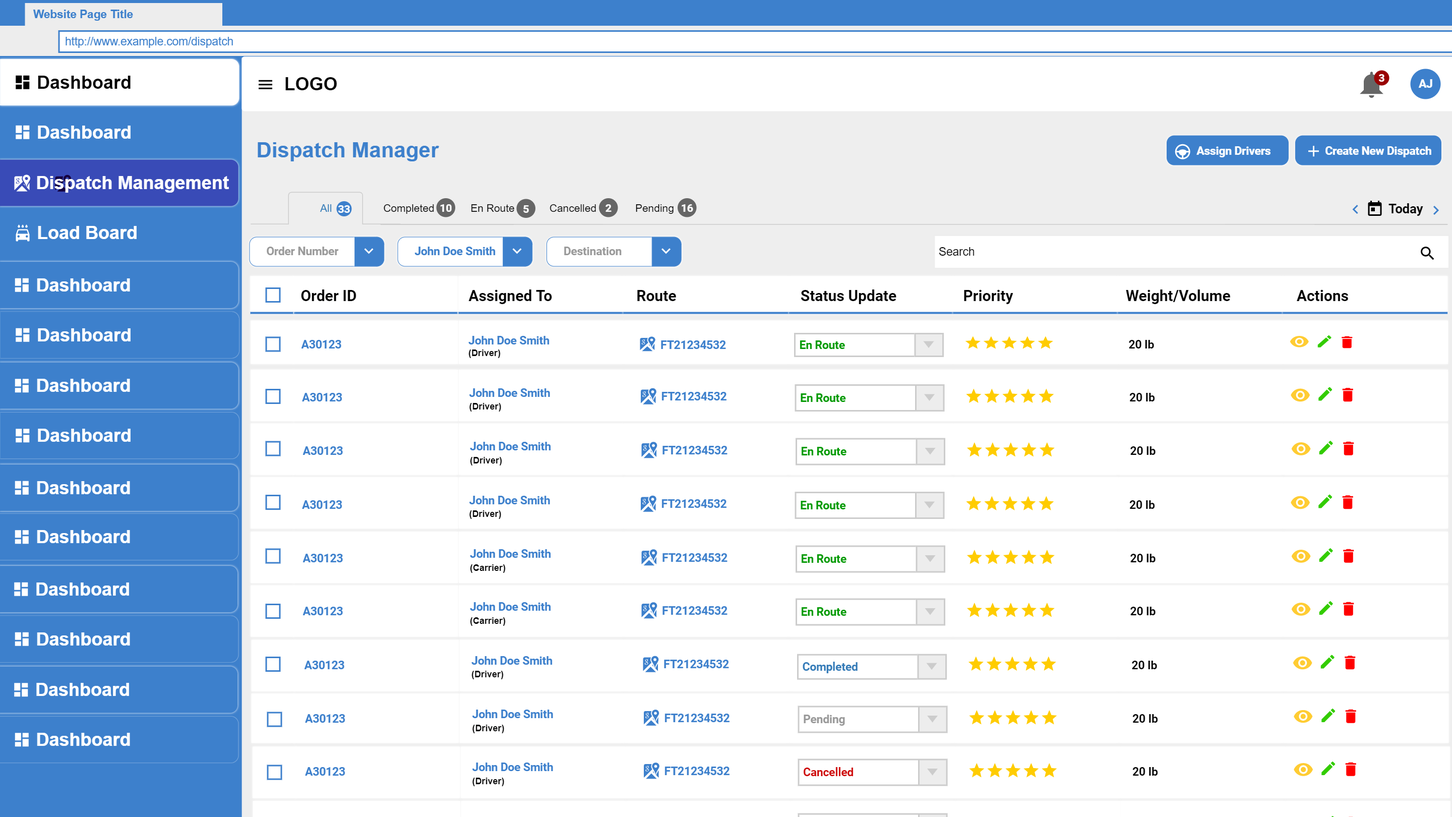
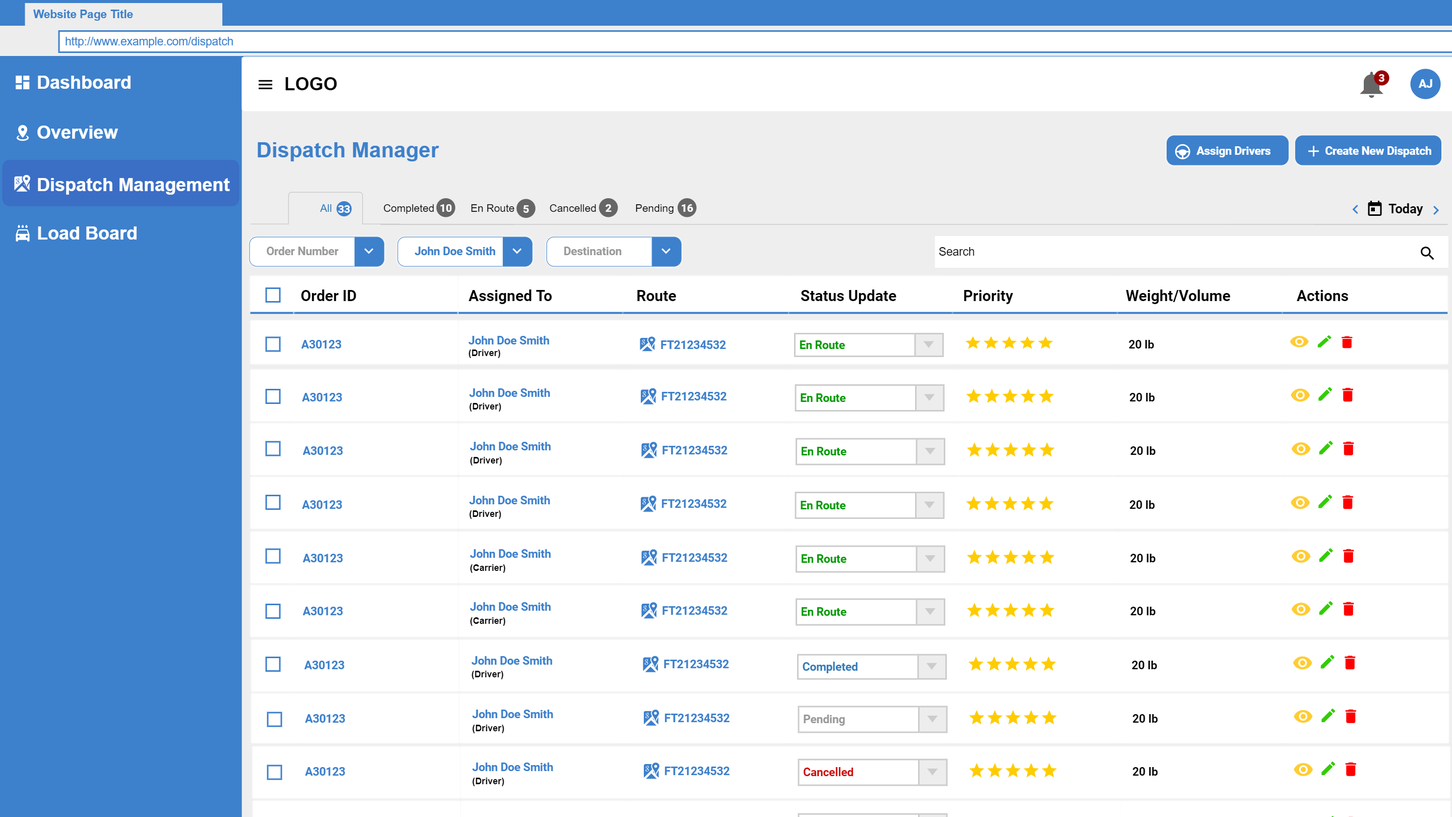
updated dispatch menu

diff --git a/index.html b/index.html
@@ -1,2 +1,2 @@
 <html xmlns="http://www.w3.org/1999/xhtml" xmlns:p="http://www.evolus.vn/Namespace/Pencil" xmlns:html="http://www.w3.org/1999/xhtml"><head><meta http-equiv="Content-Type" content="text/html; charset=UTF-8" />
-<title>moonstar maintenance module</title><link rel="stylesheet" href="Resources/style.css" /><script type="application/javascript" src="Resources/script.js"></script></head><body><h1 id="documentTitle">moonstar maintenance module</h1><p id="documentMetadata">Exported at: Thu Oct 26 2023 13:24:37 GMT+0100 (West Africa Standard Time)</p><div class="Page" id="login_page"><h2>Login</h2><div class="ImageContainer"><img src="pages\login.png" width="1920" height="1080" usemap="#map_login" /></div><map name="map_login"><area shape="rect" coords="265.72686767578125,628.59765625,649.226928710938,662.59765625" href="#modules__page" title="Go to page 'Modules '" /></map></div><div class="Page" id="modules__page"><h2>Modules </h2><div class="ImageContainer"><img src="pages\modules_.png" width="1920" height="1080" usemap="#map_modules_" /></div><map name="map_modules_"></map></div><div class="Page" id="dispatch_page"><h2>Dispatch</h2><div class="ImageContainer"><img src="pages\dispatch.png" width="1920" height="1080" usemap="#map_dispatch" /></div><map name="map_dispatch"></map></div><div class="Page" id="dispatch_manager_page"><h2>Dispatch Manager</h2><div class="ImageContainer"><img src="pages\dispatch_manager.png" width="1920" height="1080" usemap="#map_dispatch_manager" /></div><map name="map_dispatch_manager"><area shape="rect" coords="352.0003356933594,799.0003662109375,370.000335693359,817.000366210938" href="#dispatch_dashboard_bulk_user_action_page" title="Go to page 'Dispatch Dashboard - Bulk User Action'" /><area shape="rect" coords="352.00018310546875,726.000244140625,370.000183105469,744.000244140625" href="#dispatch_dashboard_bulk_user_action_page" title="Go to page 'Dispatch Dashboard - Bulk User Action'" /><area shape="rect" coords="352.0000915527344,655.0004272460938,370.000091552734,673.000427246094" href="#dispatch_dashboard_bulk_user_action_page" title="Go to page 'Dispatch Dashboard - Bulk User Action'" /><area shape="rect" coords="352.0000915527344,584.000244140625,370.000091552734,602.000244140625" href="#dispatch_dashboard_bulk_user_action_page" title="Go to page 'Dispatch Dashboard - Bulk User Action'" /><area shape="rect" coords="352.0002136230469,869.0001831054688,370.000213623047,887.000183105469" href="#dispatch_dashboard_bulk_user_action_page" title="Go to page 'Dispatch Dashboard - Bulk User Action'" /><area shape="rect" coords="354.0001220703125,942.000732421875,372.000122070312,960.000732421875" href="#dispatch_dashboard_bulk_user_action_page" title="Go to page 'Dispatch Dashboard - Bulk User Action'" /><area shape="rect" coords="354.0003662109375,1012.00048828125,372.000366210938,1030.00048828125" href="#dispatch_dashboard_bulk_user_action_page" title="Go to page 'Dispatch Dashboard - Bulk User Action'" /><area shape="rect" coords="352.0000915527344,515.0001220703125,370.000091552734,533.000122070312" href="#dispatch_dashboard_bulk_user_action_page" title="Go to page 'Dispatch Dashboard - Bulk User Action'" /><area shape="rect" coords="352.0000915527344,446.00006103515625,370.000091552734,464.000061035156" href="#dispatch_dashboard_bulk_user_action_page" title="Go to page 'Dispatch Dashboard - Bulk User Action'" /><area shape="rect" coords="352.0000915527344,381.00006103515625,370.000091552734,399.000061035156" href="#dispatch_dashboard_bulk_user_action_page" title="Go to page 'Dispatch Dashboard - Bulk User Action'" /><area shape="rect" coords="846.4534912109375,795.1103515625,962.406784057617,818.5478515625" href="#dispatch_dashboard_route_details_expanded_page" title="Go to page 'Dispatch Dashboard - Route Details Expanded'" /><area shape="rect" coords="846.4534912109375,725.110107421875,962.406860351562,748.547607421875" href="#dispatch_dashboard_route_details_expanded_page" title="Go to page 'Dispatch Dashboard - Route Details Expanded'" /><area shape="rect" coords="845.453369140625,654.110107421875,961.406661987305,677.547607421875" href="#dispatch_dashboard_route_details_expanded_page" title="Go to page 'Dispatch Dashboard - Route Details Expanded'" /><area shape="rect" coords="849.4534912109375,1007.1104736328125,965.406860351562,1030.5480556488" href="#dispatch_dashboard_route_details_expanded_page" title="Go to page 'Dispatch Dashboard - Route Details Expanded'" /><area shape="rect" coords="845.4534912109375,512.1100463867188,961.406784057617,535.547546386719" href="#dispatch_dashboard_route_details_expanded_page" title="Go to page 'Dispatch Dashboard - Route Details Expanded'" /><area shape="rect" coords="844.453369140625,444.1099548339844,960.406661987305,467.266368865967" href="#dispatch_dashboard_route_details_expanded_page" title="Go to page 'Dispatch Dashboard - Route Details Expanded'" /><area shape="rect" coords="846.4534912109375,583.1102905273438,962.406784057617,606.547790527344" href="#dispatch_dashboard_route_details_expanded_page" title="Go to page 'Dispatch Dashboard - Route Details Expanded'" /><area shape="rect" coords="848.453369140625,866.110107421875,964.406661987305,889.547607421875" href="#dispatch_dashboard_route_details_expanded_page" title="Go to page 'Dispatch Dashboard - Route Details Expanded'" /><area shape="rect" coords="849.4534912109375,937.1102294921875,965.406784057617,960.266723632812" href="#dispatch_dashboard_route_details_expanded_page" title="Go to page 'Dispatch Dashboard - Route Details Expanded'" /></map></div><div class="Page" id="dispatch_dashboard_bulk_user_action_page"><h2>Dispatch Dashboard - Bulk User Action</h2><div class="ImageContainer"><img src="pages\dispatch_dashboard_bulk_user_action.png" width="1920" height="1080" usemap="#map_dispatch_dashboard_bulk_user_action" /></div><map name="map_dispatch_dashboard_bulk_user_action"><area shape="rect" coords="357.00042724609375,942.0006713867188,375.000427246094,960.000671386719" href="#dispatch_manager_page" title="Go to page 'Dispatch Manager'" /><area shape="rect" coords="356.0003662109375,871.0006103515625,374.000366210938,889.000610351562" href="#dispatch_manager_page" title="Go to page 'Dispatch Manager'" /><area shape="rect" coords="354.0003662109375,800.000732421875,372.000366210938,818.000732421875" href="#dispatch_manager_page" title="Go to page 'Dispatch Manager'" /><area shape="rect" coords="354.0004577636719,730.00048828125,372.000457763672,748.00048828125" href="#dispatch_manager_page" title="Go to page 'Dispatch Manager'" /><area shape="rect" coords="353.0003356933594,659.00048828125,371.000335693359,677.00048828125" href="#dispatch_manager_page" title="Go to page 'Dispatch Manager'" /><area shape="rect" coords="354.0003662109375,588.0006713867188,372.000366210938,606.000671386719" href="#dispatch_manager_page" title="Go to page 'Dispatch Manager'" /><area shape="rect" coords="353.0003662109375,517.0004272460938,371.000366210938,535.000427246094" href="#dispatch_manager_page" title="Go to page 'Dispatch Manager'" /><area shape="rect" coords="352.0003356933594,448.0003356933594,370.000335693359,466.000335693359" href="#dispatch_manager_page" title="Go to page 'Dispatch Manager'" /><area shape="rect" coords="352.00006103515625,383.00006103515625,370.000061035156,401.000061035156" href="#dispatch_manager_page" title="Go to page 'Dispatch Manager'" /><area shape="rect" coords="849.4534912109375,937.1103515625,965.406860351562,960.266765594482" href="#dispatch_dashboard_route_details_expanded_page" title="Go to page 'Dispatch Dashboard - Route Details Expanded'" /><area shape="rect" coords="848.4534912109375,866.1102294921875,964.406784057617,889.547729492188" href="#dispatch_dashboard_route_details_expanded_page" title="Go to page 'Dispatch Dashboard - Route Details Expanded'" /><area shape="rect" coords="846.4534912109375,795.1103515625,962.406784057617,818.5478515625" href="#dispatch_dashboard_route_details_expanded_page" title="Go to page 'Dispatch Dashboard - Route Details Expanded'" /><area shape="rect" coords="846.4534912109375,725.110107421875,962.406860351562,748.547607421875" href="#dispatch_dashboard_route_details_expanded_page" title="Go to page 'Dispatch Dashboard - Route Details Expanded'" /><area shape="rect" coords="845.453369140625,654.110107421875,961.406661987305,677.547607421875" href="#dispatch_dashboard_route_details_expanded_page" title="Go to page 'Dispatch Dashboard - Route Details Expanded'" /><area shape="rect" coords="846.4534912109375,583.1102905273438,962.406860351562,606.547790527344" href="#dispatch_dashboard_route_details_expanded_page" title="Go to page 'Dispatch Dashboard - Route Details Expanded'" /><area shape="rect" coords="845.4534912109375,512.1100463867188,961.406784057617,535.547546386719" href="#dispatch_dashboard_route_details_expanded_page" title="Go to page 'Dispatch Dashboard - Route Details Expanded'" /><area shape="rect" coords="844.453369140625,444.1099548339844,960.406661987305,467.266368865967" href="#dispatch_dashboard_route_details_expanded_page" title="Go to page 'Dispatch Dashboard - Route Details Expanded'" /></map></div><div class="Page" id="dispatch_dashboard_route_details_expanded_page"><h2>Dispatch Dashboard - Route Details Expanded</h2><div class="ImageContainer"><img src="pages\dispatch_dashboard_route_details_expanded.png" width="1920" height="1080" usemap="#map_dispatch_dashboard_route_details_expanded" /></div><map name="map_dispatch_dashboard_route_details_expanded"><area shape="rect" coords="924.6434326171875,551.0360107421875,1091.90515136719,596.036010742188" href="#dispatch_dashboard_route_video_feed_page" title="Go to page 'Dispatch Dashboard - Route Video Feed'" /><area shape="rect" coords="351.0002136230469,175.00035095214844,401.000213623047,225.000350952148" href="#dispatch_manager_page" title="Go to page 'Dispatch Manager'" /><area shape="rect" coords="1102.000244140625,222.00039672851562,1142.00024414062,262.000419616699" href="#dispatch_dashboard_route_details_page" title="Go to page 'Dispatch Dashboard - Route Details'" /></map></div><div class="Page" id="dispatch_dashboard_route_details_page"><h2>Dispatch Dashboard - Route Details</h2><div class="ImageContainer"><img src="pages\dispatch_dashboard_route_details.png" width="1920" height="1080" usemap="#map_dispatch_dashboard_route_details" /></div><map name="map_dispatch_dashboard_route_details"><area shape="rect" coords="343,175,383,215" href="#dispatch_dashboard_route_details_expanded_page" title="Go to page 'Dispatch Dashboard - Route Details Expanded'" /></map></div><div class="Page" id="dispatch_dashboard_route_video_feed_page"><h2>Dispatch Dashboard - Route Video Feed</h2><div class="ImageContainer"><img src="pages\dispatch_dashboard_route_video_feed.png" width="1920" height="1080" usemap="#map_dispatch_dashboard_route_video_feed" /></div><map name="map_dispatch_dashboard_route_video_feed"><area shape="rect" coords="1351.3125,345.107666015625,1375.7265625,369.521770477295" href="#dispatch_dashboard_route_details_expanded_page" title="Go to page 'Dispatch Dashboard - Route Details Expanded'" /><area shape="rect" coords="351.0002136230469,175.00035095214844,401.000213623047,225.000350952148" href="#dispatch_manager_page" title="Go to page 'Dispatch Manager'" /><area shape="rect" coords="1102.000244140625,222.00039672851562,1142.00024414062,262.000419616699" href="#dispatch_dashboard_route_details_page" title="Go to page 'Dispatch Dashboard - Route Details'" /></map></div><div class="Page" id="load_board_page"><h2>Load Board</h2><div class="ImageContainer"><img src="pages\load_board.png" width="1920" height="1080" usemap="#map_load_board" /></div><map name="map_load_board"><area shape="rect" coords="357.5245056152344,1076.275634765625,375.524505615234,1094.27563476562" href="#dispatch_dashboard_bulk_user_action_page" title="Go to page 'Dispatch Dashboard - Bulk User Action'" /><area shape="rect" coords="357.5245056152344,1013.2755737304688,375.524505615234,1031.27557373047" href="#dispatch_dashboard_bulk_user_action_page" title="Go to page 'Dispatch Dashboard - Bulk User Action'" /><area shape="rect" coords="357.5245056152344,950.2755737304688,375.524505615234,968.275573730469" href="#dispatch_dashboard_bulk_user_action_page" title="Go to page 'Dispatch Dashboard - Bulk User Action'" /><area shape="rect" coords="358.00018310546875,887.0003662109375,376.000183105469,905.000366210938" href="#dispatch_dashboard_bulk_user_action_page" title="Go to page 'Dispatch Dashboard - Bulk User Action'" /><area shape="rect" coords="357.5245361328125,446.27557373046875,375.524536132812,464.275573730469" href="#dispatch_dashboard_bulk_user_action_page" title="Go to page 'Dispatch Dashboard - Bulk User Action'" /><area shape="rect" coords="403.9312438964844,445.5418395996094,456.931243896484,466.541839599609" href="#load_board_load_details_expanded_page" title="Go to page 'Load Board - Load Details Expanded'" /><area shape="rect" coords="357.5245361328125,509.27557373046875,375.524536132812,527.275573730469" href="#dispatch_dashboard_bulk_user_action_page" title="Go to page 'Dispatch Dashboard - Bulk User Action'" /><area shape="rect" coords="403.9312438964844,508.5418395996094,456.931243896484,529.541881561279" href="#load_board_load_details_expanded_page" title="Go to page 'Load Board - Load Details Expanded'" /><area shape="rect" coords="358.00018310546875,572.000244140625,376.000183105469,590.000244140625" href="#dispatch_dashboard_bulk_user_action_page" title="Go to page 'Dispatch Dashboard - Bulk User Action'" /><area shape="rect" coords="404.4068298339844,571.2664794921875,457.406829833984,592.266479492188" href="#load_board_load_details_expanded_page" title="Go to page 'Load Board - Load Details Expanded'" /><area shape="rect" coords="358.00018310546875,635.000244140625,376.000183105469,653.000244140625" href="#dispatch_dashboard_bulk_user_action_page" title="Go to page 'Dispatch Dashboard - Bulk User Action'" /><area shape="rect" coords="404.4068298339844,634.2665405273438,457.406829833984,655.266540527344" href="#load_board_load_details_expanded_page" title="Go to page 'Load Board - Load Details Expanded'" /><area shape="rect" coords="357.52459716796875,698.2755737304688,375.524597167969,716.275573730469" href="#dispatch_dashboard_bulk_user_action_page" title="Go to page 'Dispatch Dashboard - Bulk User Action'" /><area shape="rect" coords="403.9312438964844,697.5418701171875,456.931243896484,718.541870117188" href="#load_board_load_details_expanded_page" title="Go to page 'Load Board - Load Details Expanded'" /><area shape="rect" coords="357.52459716796875,761.2755737304688,375.524597167969,779.275573730469" href="#dispatch_dashboard_bulk_user_action_page" title="Go to page 'Dispatch Dashboard - Bulk User Action'" /><area shape="rect" coords="403.9312438964844,760.5418701171875,456.931243896484,781.541870117188" href="#load_board_load_details_expanded_page" title="Go to page 'Load Board - Load Details Expanded'" /><area shape="rect" coords="358.00018310546875,824.000244140625,376.000183105469,842.000244140625" href="#dispatch_dashboard_bulk_user_action_page" title="Go to page 'Dispatch Dashboard - Bulk User Action'" /><area shape="rect" coords="404.4068603515625,823.2665405273438,457.406860351562,844.266540527344" href="#load_board_load_details_expanded_page" title="Go to page 'Load Board - Load Details Expanded'" /><area shape="rect" coords="357.0000915527344,381.00006103515625,375.000091552734,399.000061035156" href="#dispatch_dashboard_bulk_user_action_page" title="Go to page 'Dispatch Dashboard - Bulk User Action'" /></map></div><div class="Page" id="load_board_load_details_expanded_page"><h2>Load Board - Load Details Expanded</h2><div class="ImageContainer"><img src="pages\load_board_load_details_expanded.png" width="1920" height="1080" usemap="#map_load_board_load_details_expanded" /></div><map name="map_load_board_load_details_expanded"><area shape="rect" coords="351.0002136230469,175.00035095214844,401.000213623047,225.000350952148" href="#load_board_page" title="Go to page 'Load Board'" /><area shape="rect" coords="1102.000244140625,222.00039672851562,1142.00024414062,262.000419616699" href="#dispatch_dashboard_route_details_page" title="Go to page 'Dispatch Dashboard - Route Details'" /></map></div></body></html>
+<title>moonstar maintenance module</title><link rel="stylesheet" href="Resources/style.css" /><script type="application/javascript" src="Resources/script.js"></script></head><body><h1 id="documentTitle">moonstar maintenance module</h1><p id="documentMetadata">Exported at: Thu Oct 26 2023 14:50:25 GMT+0100 (West Africa Standard Time)</p><div class="Page" id="login_page"><h2>Login</h2><div class="ImageContainer"><img src="pages\login.png" width="1920" height="1080" usemap="#map_login" /></div><map name="map_login"><area shape="rect" coords="265.72686767578125,628.59765625,649.226928710938,662.59765625" href="#modules__page" title="Go to page 'Modules '" /></map></div><div class="Page" id="modules__page"><h2>Modules </h2><div class="ImageContainer"><img src="pages\modules_.png" width="1920" height="1080" usemap="#map_modules_" /></div><map name="map_modules_"><area shape="rect" coords="505.64129638671875,247.0347900390625,940.156921386719,531.549987792969" href="#dispatch_page" title="Go to page 'Dispatch'" /></map></div><div class="Page" id="dispatch_page"><h2>Dispatch</h2><div class="ImageContainer"><img src="pages\dispatch.png" width="1920" height="1080" usemap="#map_dispatch" /></div><map name="map_dispatch"><area shape="rect" coords="16.874629974365234,239.00006103515625,303.588436126709,273.000061035156" href="#dispatch_manager_page" title="Go to page 'Dispatch Manager'" /><area shape="rect" coords="17.874629974365234,303.0000915527344,181.58842086792,337.000091552734" href="#load_board_page" title="Go to page 'Load Board'" /></map></div><div class="Page" id="dispatch_manager_page"><h2>Dispatch Manager</h2><div class="ImageContainer"><img src="pages\dispatch_manager.png" width="1920" height="1080" usemap="#map_dispatch_manager" /></div><map name="map_dispatch_manager"><area shape="rect" coords="17.88282012939453,92,173.71378326416,126" href="#dispatch_page" title="Go to page 'Dispatch'" /><area shape="rect" coords="18.000003814697266,291.00018310546875,181.713794708252,325.000164031982" href="#load_board_page" title="Go to page 'Load Board'" /><area shape="rect" coords="352.0003356933594,799.0003662109375,370.000335693359,817.000366210938" href="#dispatch_dashboard_bulk_user_action_page" title="Go to page 'Dispatch Dashboard - Bulk User Action'" /><area shape="rect" coords="352.00018310546875,726.000244140625,370.000183105469,744.000244140625" href="#dispatch_dashboard_bulk_user_action_page" title="Go to page 'Dispatch Dashboard - Bulk User Action'" /><area shape="rect" coords="352.0000915527344,655.0004272460938,370.000091552734,673.000427246094" href="#dispatch_dashboard_bulk_user_action_page" title="Go to page 'Dispatch Dashboard - Bulk User Action'" /><area shape="rect" coords="352.0000915527344,584.000244140625,370.000091552734,602.000244140625" href="#dispatch_dashboard_bulk_user_action_page" title="Go to page 'Dispatch Dashboard - Bulk User Action'" /><area shape="rect" coords="352.0002136230469,869.0001831054688,370.000213623047,887.000183105469" href="#dispatch_dashboard_bulk_user_action_page" title="Go to page 'Dispatch Dashboard - Bulk User Action'" /><area shape="rect" coords="354.0001220703125,942.000732421875,372.000122070312,960.000732421875" href="#dispatch_dashboard_bulk_user_action_page" title="Go to page 'Dispatch Dashboard - Bulk User Action'" /><area shape="rect" coords="354.0003662109375,1012.00048828125,372.000366210938,1030.00048828125" href="#dispatch_dashboard_bulk_user_action_page" title="Go to page 'Dispatch Dashboard - Bulk User Action'" /><area shape="rect" coords="352.0000915527344,515.0001220703125,370.000091552734,533.000122070312" href="#dispatch_dashboard_bulk_user_action_page" title="Go to page 'Dispatch Dashboard - Bulk User Action'" /><area shape="rect" coords="352.0000915527344,446.00006103515625,370.000091552734,464.000061035156" href="#dispatch_dashboard_bulk_user_action_page" title="Go to page 'Dispatch Dashboard - Bulk User Action'" /><area shape="rect" coords="352.0000915527344,381.00006103515625,370.000091552734,399.000061035156" href="#dispatch_dashboard_bulk_user_action_page" title="Go to page 'Dispatch Dashboard - Bulk User Action'" /><area shape="rect" coords="846.4534912109375,795.1103515625,962.406784057617,818.5478515625" href="#dispatch_dashboard_route_details_expanded_page" title="Go to page 'Dispatch Dashboard - Route Details Expanded'" /><area shape="rect" coords="846.4534912109375,725.110107421875,962.406860351562,748.547607421875" href="#dispatch_dashboard_route_details_expanded_page" title="Go to page 'Dispatch Dashboard - Route Details Expanded'" /><area shape="rect" coords="845.453369140625,654.110107421875,961.406661987305,677.547607421875" href="#dispatch_dashboard_route_details_expanded_page" title="Go to page 'Dispatch Dashboard - Route Details Expanded'" /><area shape="rect" coords="849.4534912109375,1007.1104736328125,965.406860351562,1030.5480556488" href="#dispatch_dashboard_route_details_expanded_page" title="Go to page 'Dispatch Dashboard - Route Details Expanded'" /><area shape="rect" coords="845.4534912109375,512.1100463867188,961.406784057617,535.547546386719" href="#dispatch_dashboard_route_details_expanded_page" title="Go to page 'Dispatch Dashboard - Route Details Expanded'" /><area shape="rect" coords="844.453369140625,444.1099548339844,960.406661987305,467.266368865967" href="#dispatch_dashboard_route_details_expanded_page" title="Go to page 'Dispatch Dashboard - Route Details Expanded'" /><area shape="rect" coords="846.4534912109375,583.1102905273438,962.406784057617,606.547790527344" href="#dispatch_dashboard_route_details_expanded_page" title="Go to page 'Dispatch Dashboard - Route Details Expanded'" /><area shape="rect" coords="848.453369140625,866.110107421875,964.406661987305,889.547607421875" href="#dispatch_dashboard_route_details_expanded_page" title="Go to page 'Dispatch Dashboard - Route Details Expanded'" /><area shape="rect" coords="849.4534912109375,937.1102294921875,965.406784057617,960.266723632812" href="#dispatch_dashboard_route_details_expanded_page" title="Go to page 'Dispatch Dashboard - Route Details Expanded'" /></map></div><div class="Page" id="dispatch_dashboard_bulk_user_action_page"><h2>Dispatch Dashboard - Bulk User Action</h2><div class="ImageContainer"><img src="pages\dispatch_dashboard_bulk_user_action.png" width="1920" height="1080" usemap="#map_dispatch_dashboard_bulk_user_action" /></div><map name="map_dispatch_dashboard_bulk_user_action"><area shape="rect" coords="17.88282012939453,92,173.71378326416,126" href="#dispatch_page" title="Go to page 'Dispatch'" /><area shape="rect" coords="18.000003814697266,291.00018310546875,181.713794708252,325.000164031982" href="#load_board_page" title="Go to page 'Load Board'" /><area shape="rect" coords="357.00042724609375,942.0006713867188,375.000427246094,960.000671386719" href="#dispatch_manager_page" title="Go to page 'Dispatch Manager'" /><area shape="rect" coords="356.0003662109375,871.0006103515625,374.000366210938,889.000610351562" href="#dispatch_manager_page" title="Go to page 'Dispatch Manager'" /><area shape="rect" coords="354.0003662109375,800.000732421875,372.000366210938,818.000732421875" href="#dispatch_manager_page" title="Go to page 'Dispatch Manager'" /><area shape="rect" coords="354.0004577636719,730.00048828125,372.000457763672,748.00048828125" href="#dispatch_manager_page" title="Go to page 'Dispatch Manager'" /><area shape="rect" coords="353.0003356933594,659.00048828125,371.000335693359,677.00048828125" href="#dispatch_manager_page" title="Go to page 'Dispatch Manager'" /><area shape="rect" coords="354.0003662109375,588.0006713867188,372.000366210938,606.000671386719" href="#dispatch_manager_page" title="Go to page 'Dispatch Manager'" /><area shape="rect" coords="353.0003662109375,517.0004272460938,371.000366210938,535.000427246094" href="#dispatch_manager_page" title="Go to page 'Dispatch Manager'" /><area shape="rect" coords="352.0003356933594,448.0003356933594,370.000335693359,466.000335693359" href="#dispatch_manager_page" title="Go to page 'Dispatch Manager'" /><area shape="rect" coords="352.00006103515625,383.00006103515625,370.000061035156,401.000061035156" href="#dispatch_manager_page" title="Go to page 'Dispatch Manager'" /><area shape="rect" coords="849.4534912109375,937.1103515625,965.406860351562,960.266765594482" href="#dispatch_dashboard_route_details_expanded_page" title="Go to page 'Dispatch Dashboard - Route Details Expanded'" /><area shape="rect" coords="848.4534912109375,866.1102294921875,964.406784057617,889.547729492188" href="#dispatch_dashboard_route_details_expanded_page" title="Go to page 'Dispatch Dashboard - Route Details Expanded'" /><area shape="rect" coords="846.4534912109375,795.1103515625,962.406784057617,818.5478515625" href="#dispatch_dashboard_route_details_expanded_page" title="Go to page 'Dispatch Dashboard - Route Details Expanded'" /><area shape="rect" coords="846.4534912109375,725.110107421875,962.406860351562,748.547607421875" href="#dispatch_dashboard_route_details_expanded_page" title="Go to page 'Dispatch Dashboard - Route Details Expanded'" /><area shape="rect" coords="845.453369140625,654.110107421875,961.406661987305,677.547607421875" href="#dispatch_dashboard_route_details_expanded_page" title="Go to page 'Dispatch Dashboard - Route Details Expanded'" /><area shape="rect" coords="846.4534912109375,583.1102905273438,962.406860351562,606.547790527344" href="#dispatch_dashboard_route_details_expanded_page" title="Go to page 'Dispatch Dashboard - Route Details Expanded'" /><area shape="rect" coords="845.4534912109375,512.1100463867188,961.406784057617,535.547546386719" href="#dispatch_dashboard_route_details_expanded_page" title="Go to page 'Dispatch Dashboard - Route Details Expanded'" /><area shape="rect" coords="844.453369140625,444.1099548339844,960.406661987305,467.266368865967" href="#dispatch_dashboard_route_details_expanded_page" title="Go to page 'Dispatch Dashboard - Route Details Expanded'" /></map></div><div class="Page" id="dispatch_dashboard_route_details_expanded_page"><h2>Dispatch Dashboard - Route Details Expanded</h2><div class="ImageContainer"><img src="pages\dispatch_dashboard_route_details_expanded.png" width="1920" height="1080" usemap="#map_dispatch_dashboard_route_details_expanded" /></div><map name="map_dispatch_dashboard_route_details_expanded"><area shape="rect" coords="15.882819175720215,92,171.713782310486,126" href="#dispatch_page" title="Go to page 'Dispatch'" /><area shape="rect" coords="16.000003814697266,291.00018310546875,179.713794708252,325.000164031982" href="#load_board_page" title="Go to page 'Load Board'" /><area shape="rect" coords="924.6434326171875,551.0360107421875,1091.90515136719,596.036010742188" href="#dispatch_dashboard_route_video_feed_page" title="Go to page 'Dispatch Dashboard - Route Video Feed'" /><area shape="rect" coords="351.0002136230469,175.00035095214844,401.000213623047,225.000350952148" href="#dispatch_manager_page" title="Go to page 'Dispatch Manager'" /><area shape="rect" coords="1102.000244140625,222.00039672851562,1142.00024414062,262.000419616699" href="#dispatch_dashboard_route_details_page" title="Go to page 'Dispatch Dashboard - Route Details'" /></map></div><div class="Page" id="dispatch_dashboard_route_details_page"><h2>Dispatch Dashboard - Route Details</h2><div class="ImageContainer"><img src="pages\dispatch_dashboard_route_details.png" width="1920" height="1080" usemap="#map_dispatch_dashboard_route_details" /></div><map name="map_dispatch_dashboard_route_details"><area shape="rect" coords="17.88282012939453,92,173.71378326416,126" href="#dispatch_page" title="Go to page 'Dispatch'" /><area shape="rect" coords="18.000003814697266,291.00018310546875,181.713794708252,325.000164031982" href="#load_board_page" title="Go to page 'Load Board'" /><area shape="rect" coords="343,175,383,215" href="#dispatch_dashboard_route_details_expanded_page" title="Go to page 'Dispatch Dashboard - Route Details Expanded'" /></map></div><div class="Page" id="dispatch_dashboard_route_video_feed_page"><h2>Dispatch Dashboard - Route Video Feed</h2><div class="ImageContainer"><img src="pages\dispatch_dashboard_route_video_feed.png" width="1920" height="1080" usemap="#map_dispatch_dashboard_route_video_feed" /></div><map name="map_dispatch_dashboard_route_video_feed"><area shape="rect" coords="1351.3125,345.10772705078125,1375.72672653198,369.521831512451" href="#dispatch_dashboard_route_details_expanded_page" title="Go to page 'Dispatch Dashboard - Route Details Expanded'" /><area shape="rect" coords="17.88282012939453,92,173.71378326416,126" href="#dispatch_page" title="Go to page 'Dispatch'" /><area shape="rect" coords="18.000003814697266,291.00018310546875,181.713794708252,325.000164031982" href="#load_board_page" title="Go to page 'Load Board'" /><area shape="rect" coords="351.0002136230469,175.00035095214844,401.000213623047,225.000350952148" href="#dispatch_manager_page" title="Go to page 'Dispatch Manager'" /><area shape="rect" coords="1102.000244140625,222.00039672851562,1142.00024414062,262.000419616699" href="#dispatch_dashboard_route_details_page" title="Go to page 'Dispatch Dashboard - Route Details'" /></map></div><div class="Page" id="load_board_page"><h2>Load Board</h2><div class="ImageContainer"><img src="pages\load_board.png" width="1920" height="1080" usemap="#map_load_board" /></div><map name="map_load_board"><area shape="rect" coords="17.874631881713867,291.0001220703125,181.588422775269,325.000122070312" href="#load_board_page" title="Go to page 'Load Board'" /><area shape="rect" coords="17.757450103759766,92.0000228881836,173.588428497314,126.000022888184" href="#dispatch_page" title="Go to page 'Dispatch'" /><area shape="rect" coords="16.874629974365234,227.00006103515625,303.588436126709,261.00008392334" href="#dispatch_manager_page" title="Go to page 'Dispatch Manager'" /><area shape="rect" coords="357.5245056152344,1076.275634765625,375.524505615234,1094.27563476562" href="#dispatch_dashboard_bulk_user_action_page" title="Go to page 'Dispatch Dashboard - Bulk User Action'" /><area shape="rect" coords="357.5245056152344,1013.2755737304688,375.524505615234,1031.27557373047" href="#dispatch_dashboard_bulk_user_action_page" title="Go to page 'Dispatch Dashboard - Bulk User Action'" /><area shape="rect" coords="357.5245056152344,950.2755737304688,375.524505615234,968.275573730469" href="#dispatch_dashboard_bulk_user_action_page" title="Go to page 'Dispatch Dashboard - Bulk User Action'" /><area shape="rect" coords="358.00018310546875,887.0003662109375,376.000183105469,905.000366210938" href="#dispatch_dashboard_bulk_user_action_page" title="Go to page 'Dispatch Dashboard - Bulk User Action'" /><area shape="rect" coords="403.9312438964844,445.5418395996094,456.931243896484,466.541839599609" href="#load_board_load_details_expanded_page" title="Go to page 'Load Board - Load Details Expanded'" /><area shape="rect" coords="403.9312438964844,508.5418395996094,456.931243896484,529.541881561279" href="#load_board_load_details_expanded_page" title="Go to page 'Load Board - Load Details Expanded'" /><area shape="rect" coords="404.4068298339844,571.2664794921875,457.406829833984,592.266479492188" href="#load_board_load_details_expanded_page" title="Go to page 'Load Board - Load Details Expanded'" /><area shape="rect" coords="404.4068298339844,634.2665405273438,457.406829833984,655.266540527344" href="#load_board_load_details_expanded_page" title="Go to page 'Load Board - Load Details Expanded'" /><area shape="rect" coords="403.9312438964844,697.5418701171875,456.931243896484,718.541870117188" href="#load_board_load_details_expanded_page" title="Go to page 'Load Board - Load Details Expanded'" /><area shape="rect" coords="403.9312438964844,760.5418701171875,456.931243896484,781.541870117188" href="#load_board_load_details_expanded_page" title="Go to page 'Load Board - Load Details Expanded'" /><area shape="rect" coords="404.4068603515625,823.2665405273438,457.406860351562,844.266540527344" href="#load_board_load_details_expanded_page" title="Go to page 'Load Board - Load Details Expanded'" /></map></div><div class="Page" id="load_board_load_details_expanded_page"><h2>Load Board - Load Details Expanded</h2><div class="ImageContainer"><img src="pages\load_board_load_details_expanded.png" width="1920" height="1080" usemap="#map_load_board_load_details_expanded" /></div><map name="map_load_board_load_details_expanded"><area shape="rect" coords="17.874629974365234,291.0000915527344,181.58842086792,325.000091552734" href="#load_board_page" title="Go to page 'Load Board'" /><area shape="rect" coords="17.7574462890625,92,173.588424682617,126" href="#dispatch_page" title="Go to page 'Dispatch'" /><area shape="rect" coords="16.874629974365234,227.0000457763672,303.588436126709,261.000068664551" href="#dispatch_manager_page" title="Go to page 'Dispatch Manager'" /><area shape="rect" coords="351.0002136230469,175.00035095214844,401.000213623047,225.000350952148" href="#load_board_page" title="Go to page 'Load Board'" /><area shape="rect" coords="1102.000244140625,222.00039672851562,1142.00024414062,262.000419616699" href="#dispatch_dashboard_route_details_page" title="Go to page 'Dispatch Dashboard - Route Details'" /></map></div></body></html>
